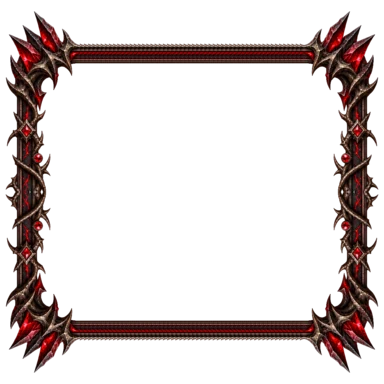
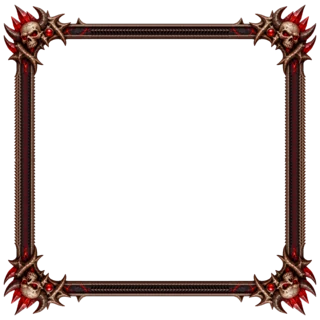
Use identical-size square ladder frames on every square box
Battle portraits, Market cards, avatars and Bag and equipment slots
draw the new square ladder frames (same family as the hero cards,
ornament only in the corners). Common to Celestial are normalized so
every tier shares one rim rectangle, and the picture is clipped to it.

Changed region(s): [[0.0, 0.0, 1.0, 1.0]]

diff --git a/src/theme/scene/rarity.css b/src/theme/scene/rarity.css
@@ -199,5 +199,29 @@ html :has(> .rx-sq) { -webkit-mask-box-image: none; -webkit-mask: var(--rx-host-
 /* Thin square frames: no dark matte or silhouette mask (Founder 2026-10-04: "something black around"); the
    picture runs under the bars and the frame simply sits on top. */
 .rx-slot > .rx-matte, .rx-card > .rx-matte { display: none; }
-html :has(> .rx-slot), html :has(> .rx-card) { -webkit-mask-box-image: none !important; -webkit-mask: none !important; mask: none !important; }
+html :has(> .rx-card) { -webkit-mask-box-image: none !important; -webkit-mask: none !important; mask: none !important; }
 html :is(.item-slot, .hero-portrait-rarity, .arena-portrait):has(> .rx-slot):not(#rx-a):not(#rx-b) { box-shadow: none !important; background: transparent !important; }
+/* Square ladder frames (2026-10-04): drawn whole on any square box, ornament only in the corners */
+.rx-slot > .rx-frame { border: 0 !important; border-image: none !important; background: center / 100% 100% no-repeat; }
+/* All square frames share one rim rectangle (outer edge at 4.69% of the box, Founder 2026-10-04: identical sizes).
+   The picture is clipped to that rectangle; corner ornaments outside it stay visible through the frame's alpha. */
+:has(> .rx-common.rx-slot) { --rx-sqm: url('/assets/ui/rarity-frames/common-sq.webp'); }
+:has(> .rx-uncommon.rx-slot) { --rx-sqm: url('/assets/ui/rarity-frames/uncommon-sq.webp'); }
+:has(> .rx-rare.rx-slot) { --rx-sqm: url('/assets/ui/rarity-frames/rare-sq.webp'); }
+:has(> .rx-epic.rx-slot) { --rx-sqm: url('/assets/ui/rarity-frames/epic-sq.webp'); }
+:has(> .rx-legendary.rx-slot) { --rx-sqm: url('/assets/ui/rarity-frames/legendary-sq.webp'); }
+:has(> .rx-mythic.rx-slot) { --rx-sqm: url('/assets/ui/rarity-frames/mythic-sq.webp'); }
+:has(> .rx-cosmic.rx-slot) { --rx-sqm: url('/assets/ui/rarity-frames/cosmic-sq.webp'); }
+:has(> .rx-divine.rx-slot) { --rx-sqm: url('/assets/ui/rarity-frames/divine-sq.webp'); }
+:has(> .rx-celestial.rx-slot) { --rx-sqm: url('/assets/ui/rarity-frames/celestial-sq.webp'); }
+:has(> .rx-cursed.rx-slot) { --rx-sqm: url('/assets/ui/rarity-frames/cursed-sq.webp'); }
+:has(> .rx-immortal.rx-slot) { --rx-sqm: url('/assets/ui/rarity-frames/immortal-sq.webp'); }
+:has(> .rx-god.rx-slot) { --rx-sqm: url('/assets/ui/rarity-frames/god-sq.webp'); }
+html :has(> .rx-slot) {
+  -webkit-mask-box-image: none !important;
+  -webkit-mask: var(--rx-sqm) center / 100% 100% no-repeat, linear-gradient(#000 0 0) center / 90.62% 90.62% no-repeat !important;
+  mask: var(--rx-sqm) center / 100% 100% no-repeat, linear-gradient(#000 0 0) center / 90.62% 90.62% no-repeat !important;
+  -webkit-mask-composite: source-over; mask-composite: add;
+}
+html .item-slot:has(> .rx-slot) .item-enchant-label, html .mv-card:has(.rx-slot) .mv-card-plus { left: 8%; top: 8%; }
+html .item-slot:has(> .rx-slot) .item-level-label, html .mv-card:has(.rx-slot) .mv-card-lv, html .hero-portrait-rarity:has(> .rx-slot) .hero-level-badge { right: 8%; bottom: 8%; }

diff --git a/src/components/RarityFx.tsx b/src/components/RarityFx.tsx
@@ -13,8 +13,8 @@ const MOTES: Partial<Record<Rarity, number>> = { mythic: 3, cosmic: 4, relic: 4,
 const ART: Partial<Record<Rarity, Rarity>> = { relic: 'cosmic' };
 const CRESTS: Partial<Record<Rarity, ('top' | 'bottom')[]>> = { legendary: ['top'], mythic: ['top'], cosmic: ['top'], divine: ['top', 'bottom'], celestial: ['top', 'bottom'], cursed: ['top', 'bottom'], immortal: ['top', 'bottom'], god: ['top', 'bottom'] };
 const BW_RATIO = 0.12;
-// Ornate square frames (ladder art without the banner) are switched off: the Founder rejected them in battle
-// (2026-10-04), so every square box keeps the thin 9-slice. Set a width here to turn them back on.
+// Square boxes draw the square ladder art whole (`<tier>-sq.webp`: ornament in the corners only, Founder-approved
+// 2026-10-04). The older corner-scaled variant stays off; set a width here to turn it back on.
 const SQUARE_MIN = Number.POSITIVE_INFINITY;
 
 // `tcg` is the collectible hero card (Founder 2026-10-04: heroes are summoned like cards): a thin card rim with a
@@ -44,8 +44,8 @@ export function RarityFx({ rarity, shape = 'card', label }: { rarity: Rarity; sh
     {tier >= 6 && <span className="rx-aura" />}
     {motes > 0 && <span className="rx-motes">{Array.from({ length: motes }, (_, i) => <i key={i} style={{ '--m': i } as CSSProperties} />)}</span>}
     {tier >= 5 && <span className="rx-glint" />}
-    <span className="rx-frame" style={shape === 'tcg' || square ? { backgroundImage: `url('/assets/ui/rarity-frames/${art}-${square ? 'sq' : 'tcg'}.webp')` } : undefined} />
+    <span className="rx-frame" style={shape === 'tcg' || shape === 'slot' ? { backgroundImage: `url('/assets/ui/rarity-frames/${art}-${shape === 'tcg' ? 'tcg' : 'sq'}.webp')` } : undefined} />
     {shape === 'tcg' && label && <span className="rx-banner"><b>{label}</b></span>}
-    {shape !== 'tcg' && !square && (CRESTS[art] ?? []).map((side) => <span key={side} className={`rx-crest rx-crest-${side}`} style={{ backgroundImage: `url('/assets/ui/rarity-frames/${art}-${shape}-crest-${side}.webp')` }} />)}
+    {shape === 'card' && (CRESTS[art] ?? []).map((side) => <span key={side} className={`rx-crest rx-crest-${side}`} style={{ backgroundImage: `url('/assets/ui/rarity-frames/${art}-${shape}-crest-${side}.webp')` }} />)}
   </span>;
 }
